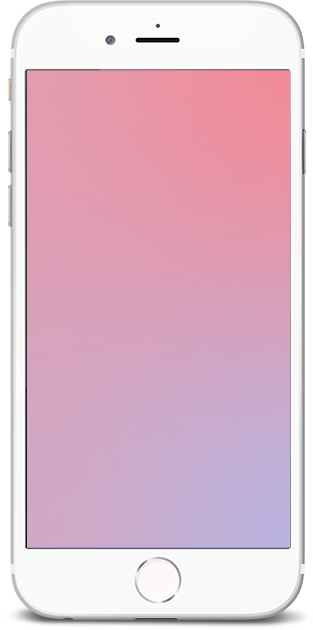
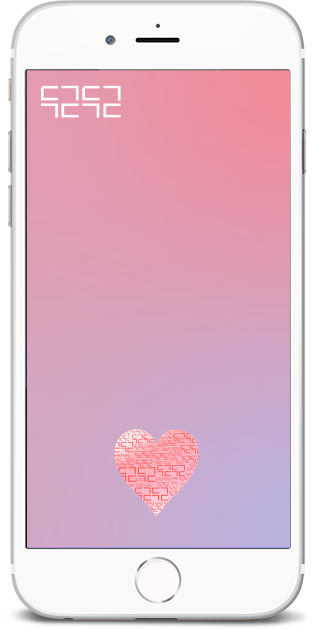
전화기 이미지 수정 및 하트 위치 수정

Changed region(s): [[0.345, 0.6635, 0.6326, 0.8143], [0.115, 0.1206, 0.4026, 0.2111]]

diff --git a/dkdk.html b/dkdk.html
@@ -289,7 +289,7 @@
                                     <h1>Contact us</h1>
                                 </div>
                                 <div class="icon-box-content">
-                                    <p>Lorem ipsum dolor sit amet consectetuer adipiscing elit sed diam lorem ipsum amet.</p>
+                                    <p>사업 및 앱 관련 문의는 아래 이메일을 이용해주세요.</p>
                                 </div>
                                 <div class="icon-box-link"><a href="mailto:dkdk@aply.biz">dkdk@aply.biz</a></div>
                             </div>                                        

diff --git a/js/forani.js b/js/forani.js
@@ -1,14 +1,14 @@
 
 function myMove() {
-  const HEART_1_POS = 100; //흰색 하트의 시작 높이값
-  const HEART_2_POS = 490; //파랑색 하트의 시작 높이값
+  const HEART_1_POS = 150; //흰색 하트의 시작 높이값
+  const HEART_2_POS = 420; //파랑색 하트의 시작 높이값
   var heart_1 = document.getElementById("heart_1");
   var heart_2 = document.getElementById("heart_2");
   var pos_1 = HEART_1_POS;
   var pos_2 = HEART_2_POS;
   var id = setInterval(frame, 8);
 
-  heart_1.style.left = "150px";
+  heart_1.style.left = "170px";
 
   function frame() {
     if (pos_1 == HEART_2_POS) {
